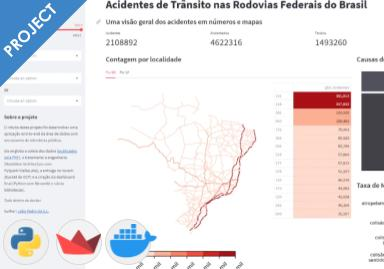
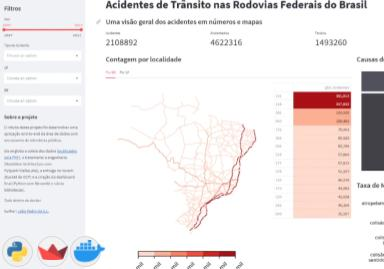
FIX: Change images, remove text shadow

Changed region(s): [[0.0, 0.803, 0.4062, 1.0], [0.0, 0.0, 0.2188, 0.3271]]

diff --git a/index.html b/index.html
@@ -35,7 +35,7 @@
 								<h1>Hi. I'm <strong>João Pedro</strong>.</h1>
 							</header>
 							<p>
-								Data enthusiastic: from raw data to BI & AI.
+								Data enthusiastic: From raw data to BI & AI.
 								Experience in projects with Data Engineering, Data Science and Machine Learning.
 								Still growing and always learning.
 							</p>
@@ -91,7 +91,7 @@
 			<article id="portfolio" class="wrapper style3">
 				<div class="container">
 					<header>
-						<h2 style="color: #181717">Cases and projects</h2>
+						<h2 style="color: #181717">Cases and Projects</h2>
 						<p>Just a sample! For the complete list, check out my <a href="https://medium.com/@joaopedro214">Medium profile</a> </p>
 					</header>
 					<div class="row">

diff --git a/assets/css/main.css b/assets/css/main.css
@@ -2001,7 +2001,6 @@ input, select, textarea {
 
 		.wrapper.style2 {
 			background-color: #202020;
-			text-shadow: 1px 1px 0px #fff;
 		}
 
 		.wrapper.style3 {
